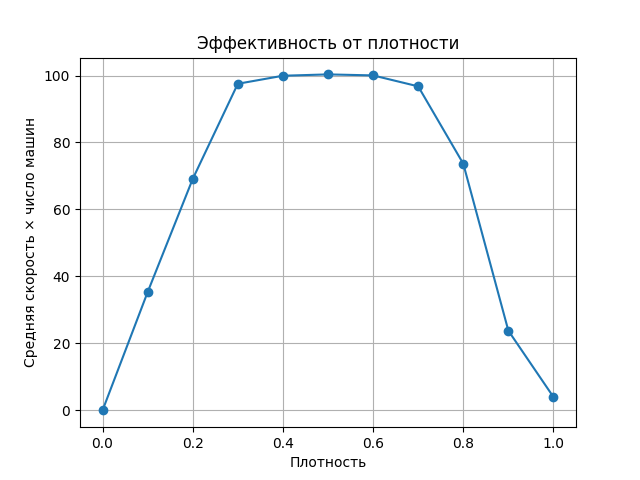
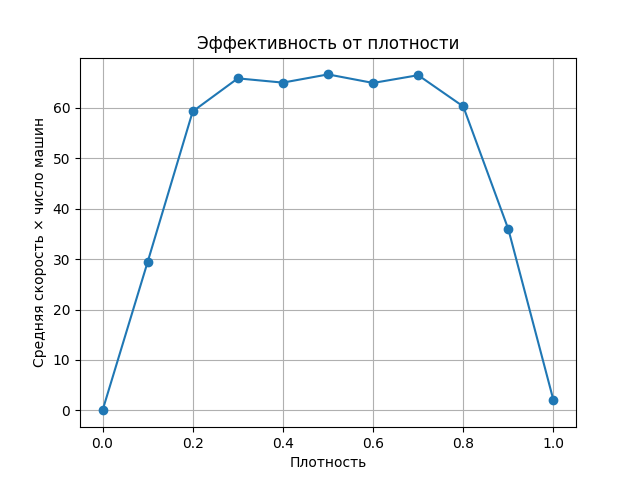
Починил горизонтальные дороги

diff --git a/Lab4/numpy/main.py b/Lab4/numpy/main.py
@@ -4,13 +4,13 @@ from matplotlib.animation import FuncAnimation, PillowWriter
 import random
 
 # ================= ПАРАМЕТРЫ =================
-GRID_SIZE = 100         # размер поля
-STEPS = 300             # количество шагов симуляции (без прогрева)
-WARMUP = 200            # прогрев
-LIGHT_PERIOD = 20       # период переключения светофора
-DENSITY_STEP = 0.1      # шаг по плотности
-NUM_VERTICAL = 1        # количество вертикальных дорог
-NUM_HORIZONTAL = 1      # количество горизонтальных дорог
+GRID_SIZE = 100  # размер поля
+STEPS = 300  # количество шагов симуляции (без прогрева)
+WARMUP = 200  # прогрев
+LIGHT_PERIOD = 20  # период переключения светофора
+DENSITY_STEP = 0.1  # шаг по плотности
+NUM_VERTICAL = 1  # количество вертикальных дорог
+NUM_HORIZONTAL = 1  # количество горизонтальных дорог
 # =============================================
 
 # направления
@@ -21,31 +21,33 @@ EMPTY = 0
 ROAD = 1
 INTERSECTION = 2
 
+
 def create_grid():
     grid = np.zeros((GRID_SIZE, GRID_SIZE), dtype=int)
 
     # позиции дорог
-    vert_pos = np.linspace(GRID_SIZE//(NUM_VERTICAL+1),
-                           GRID_SIZE - GRID_SIZE//(NUM_VERTICAL+1),
+    vert_pos = np.linspace(GRID_SIZE // (NUM_VERTICAL + 1),
+                           GRID_SIZE - GRID_SIZE // (NUM_VERTICAL + 1),
                            NUM_VERTICAL, dtype=int)
-    hor_pos = np.linspace(GRID_SIZE//(NUM_HORIZONTAL+1),
-                          GRID_SIZE - GRID_SIZE//(NUM_HORIZONTAL+1),
+    hor_pos = np.linspace(GRID_SIZE // (NUM_HORIZONTAL + 1),
+                          GRID_SIZE - GRID_SIZE // (NUM_HORIZONTAL + 1),
                           NUM_HORIZONTAL, dtype=int)
 
     for x in vert_pos:
         grid[:, x] = ROAD
-        grid[:, x-1] = ROAD  # двусторонка
+        grid[:, x - 1] = ROAD  # двусторонка
 
     for y in hor_pos:
         grid[y, :] = ROAD
-        grid[y-1, :] = ROAD  # двусторонка
+        grid[y - 1, :] = ROAD  # двусторонка
 
     # перекрестки
     for x in vert_pos:
         for y in hor_pos:
-            grid[y-1:y+1, x-1:x+1] = INTERSECTION
+            grid[y - 1:y + 1, x - 1:x + 1] = INTERSECTION
 
     return grid, vert_pos, hor_pos
+
 
 def populate_cars(grid, density, vert_pos, hor_pos):
     cars = np.zeros_like(grid, dtype=int)
@@ -57,22 +59,23 @@ def populate_cars(grid, density, vert_pos, hor_pos):
                 d = -1
                 # вертикальные дороги
                 for x in vert_pos:
-                    if j == x - 1:   # левая полоса → вниз
+                    if j == x - 1:  # левая полоса вниз
                         d = DOWN
-                    elif j == x:     # правая полоса → вверх
+                    elif j == x:  # правая полоса вверх
                         d = UP
 
                 # горизонтальные дороги
                 for y in hor_pos:
-                    if i == y - 1:   # верхняя полоса → вправо
-                        d = RIGHT
-                    elif i == y:     # нижняя полоса → влево
+                    if i == y - 1:  # верхняя полоса влево
                         d = LEFT
+                    elif i == y:  # нижняя полоса вправо
+                        d = RIGHT
 
                 if d != -1:  # нашли направление
                     cars[i, j] = 1
                     dirs[i, j] = d
     return cars, dirs
+
 
 def step_sim(grid, cars, dirs, light_state):
     new_cars = np.zeros_like(cars)
@@ -85,10 +88,14 @@ def step_sim(grid, cars, dirs, light_state):
             if cars[i, j] == 1:
                 d = dirs[i, j]
                 ni, nj = i, j
-                if d == UP: ni = (i-1) % GRID_SIZE
-                elif d == DOWN: ni = (i+1) % GRID_SIZE
-                elif d == RIGHT: nj = (j+1) % GRID_SIZE
-                elif d == LEFT: nj = (j-1) % GRID_SIZE
+                if d == UP:
+                    ni = (i - 1) % GRID_SIZE
+                elif d == DOWN:
+                    ni = (i + 1) % GRID_SIZE
+                elif d == RIGHT:
+                    nj = (j + 1) % GRID_SIZE
+                elif d == LEFT:
+                    nj = (j - 1) % GRID_SIZE
 
                 allowed = True
                 # въезд на перекресток регулируется светофором
@@ -97,6 +104,21 @@ def step_sim(grid, cars, dirs, light_state):
                         allowed = False
                     if d in (LEFT, RIGHT) and light_state != "HOR":
                         allowed = False
+
+                    # не въезжать в перекресток, если его "выход" заблокирован
+                    if allowed:
+                        nni, nnj = ni, nj
+                        if d == UP:
+                            nni = (ni - 1) % GRID_SIZE
+                        elif d == DOWN:
+                            nni = (ni + 1) % GRID_SIZE
+                        elif d == RIGHT:
+                            nnj = (nj + 1) % GRID_SIZE
+                        elif d == LEFT:
+                            nnj = (nj - 1) % GRID_SIZE
+                        # если ячейка после перекрестка занята (или уже будет занята), отказываем во въезде
+                        if cars[nni, nnj] == 1 or new_cars[nni, nnj] == 1:
+                            allowed = False
 
                 if allowed and new_cars[ni, nj] == 0 and cars[ni, nj] == 0:
                     new_cars[ni, nj] = 1
@@ -107,10 +129,10 @@ def step_sim(grid, cars, dirs, light_state):
                     new_dirs[i, j] = d
     return new_cars, new_dirs, moves
 
+
 def simulate(density, collect_frames=False):
     grid, vert_pos, hor_pos = create_grid()
     cars, dirs = populate_cars(grid, density, vert_pos, hor_pos)
-
 
     total_moves = 0
     total_cars = np.sum(cars)
@@ -128,6 +150,7 @@ def simulate(density, collect_frames=False):
     avg_speed = total_moves / (total_cars * STEPS)
     return avg_speed * total_cars, frames
 
+
 def animate(frames, density, out_gif="sim.gif"):
     fig, ax = plt.subplots()
     im = ax.imshow(frames[0][0], cmap="gray_r", vmin=0, vmax=1)
@@ -142,6 +165,7 @@ def animate(frames, density, out_gif="sim.gif"):
     ani.save(out_gif, writer=PillowWriter(fps=10))
     plt.close(fig)
 
+
 if __name__ == "__main__":
     densities = np.arange(0, 1.01, DENSITY_STEP)
     results = []
@@ -149,17 +173,16 @@ if __name__ == "__main__":
     frms = 0.5
 
     for d in densities:
-        val, frames = simulate(d, collect_frames=(abs(d-frms)<1e-6))
+        val, frames = simulate(d, collect_frames=(abs(d - frms) < 1e-6))
         results.append(val)
         print(f"density={d:.1f}, value={val:.2f}")
-        if abs(d-frms)<1e-6:  # гифка
-            animate(frames, d, "Lab4/numpy/traffic.gif")
+        if abs(d - frms) < 1e-6:  # гифка
+            animate(frames, d, "traffic.gif")
 
     plt.plot(densities, results, marker="o")
     plt.xlabel("Плотность")
     plt.ylabel("Средняя скорость × число машин")
     plt.title("Эффективность от плотности")
     plt.grid(True)
-    plt.savefig("Lab4/numpy/traffic.png")
+    plt.savefig("traffic.png")
     plt.show()
-
